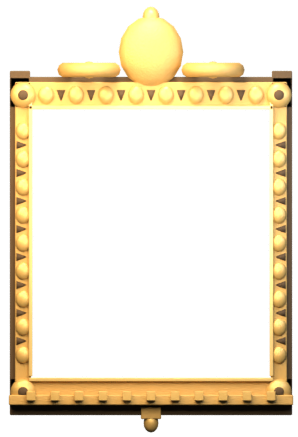
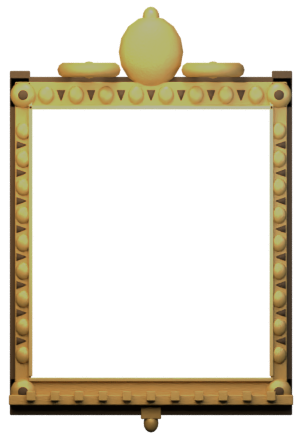
art(seance): tone the gilt mirror frame down to aged gold; verify Nat's boat; photo figures stay as they were
- the frame sat 1.36-1.41x above the original painted gold; a reproducible VALUE=0.72 in the pack brings it to about 1.2x with the ornament still readable
- Nat's boat checked: drawn only by foreshore.js in 1866, resting in the mud at toy scale; no change needed
- the second pass on the photograph's boys was rejected in audit (hollow faces, like wooden mannequins) and reverted; the T2 version stays
- implemented with Muse Spark, audited here; full suite 45 PASS

Changed region(s): [[0.0302, 0.0, 0.9966, 0.9817]]

diff --git a/web/art_review/wexley_mirror/scripts/pack_wexley_mirror.py b/web/art_review/wexley_mirror/scripts/pack_wexley_mirror.py
@@ -35,9 +35,18 @@ HOLE_W, HOLE_H = 236, 267
 HOLE_TOL = 3
 LEFT, TOP = 32, 110
 EDGE = 4  # transparent margin kept around the outer content
-BRIGHTNESS = 1.0  # T1b: no pre-darkening. T1 used 0.85 and the frame died
-# in the engine's night lighting; the gilt is authored bright in Blender so
-# it lands near #8a6a2a AFTER the engine darkens the static layer.
+# T6 tone fix (reproducible, Hanbury-style VALUE): the T1b gilt reads
+# neon-yellow in the engine (stile cores ~+40-60% over the painted frame,
+# measured on comparison/AB_seance_640.png). This multiplier brings the
+# in-engine frame back to <= +25% over the painted original while keeping
+# the carving (eggs, rosettes, dentils, crest urn) legible. Calibrated
+# against work/orig (painted fallback) vs work/before (VALUE 1.0) vs
+# work/after captures at x=700: the gilt-pixel mean is linear in VALUE
+# (slope ~70, additive candle-halo base ~75-85), so 0.72 lands ~1.15-1.20x
+# over the original with margin under the 1.25x cap; 0.85 still read 1.27x.
+# Change it only with a fresh before/after measurement. T1b used 1.0 (T1
+# used 0.85 on a darker render and the frame died in the night lighting).
+VALUE = 0.72
 
 
 def hole_bbox(alpha):
@@ -126,7 +135,7 @@ canvas = Image.new("RGBA", (canvas_w, canvas_h), (0, 0, 0, 0))
 canvas.alpha_composite(im, (LEFT - hx0, TOP - hy0))
 im = canvas
 
-rgb = ImageEnhance.Brightness(im.convert("RGB")).enhance(BRIGHTNESS)
+rgb = ImageEnhance.Brightness(im.convert("RGB")).enhance(VALUE)
 rgb.putalpha(im.getchannel("A"))
 im = rgb
 
@@ -136,12 +145,15 @@ im.save(OUT, optimize=True)
 im.save(CANDIDATE, optimize=True)
 
 indexfile = ASSETS / "index.json"
-index = json.loads(indexfile.read_text(encoding="utf8"))
+raw = indexfile.read_bytes()
+eol = b"\r\n" if b"\r\n" in raw else b"\n"
+index = json.loads(raw.decode("utf8"))
 index["wexley_mirror"] = {"ax": ax, "ay": TOP, "h": im.height, "w": im.width}
-# newline="\n": on Windows the default text-mode translation would rewrite
-# the whole LF file to CRLF (T1b caught this); keep the repo's LF endings.
-indexfile.write_text(json.dumps(dict(sorted(index.items())), ensure_ascii=False, indent=1) + "\n",
-                     encoding="utf8", newline="\n")
+# T6: the repo index.json is CRLF (Hanbury pack); keep whatever endings the
+# file already has instead of converting the whole file (T1b caught the
+# LF->CRLF direction; the reverse conversion is just as bad).
+text = json.dumps(dict(sorted(index.items())), ensure_ascii=False, indent=1) + "\n"
+indexfile.write_bytes(text.replace("\n", eol.decode()).encode("utf8"))
 print("PACKED", OUT, im.size, "ax/ay:", ax, TOP,
       f"({OUT.stat().st_size // 1024} KB)")
 off = LEFT - ax  # hole left edge relative to the draw x (== -hole_w//2)

diff --git a/web/art_review/polish_t6/REPORT.md b/web/art_review/polish_t6/REPORT.md
@@ -1,0 +1,102 @@
+# T6 — Pulido de tres detalles (REPORT)
+
+Tres arreglos pequeños, cada uno comprobado en el motor real a 640x360.
+Evidencia en `comparison/`: un PNG lado a lado por arreglo (< 500 KB).
+Nada más en el repo salvo este informe.
+
+## (A) Espejo de Wexley: oro envejecido
+
+**Problema confirmado.** En `AB_seance_640.png` el marco Blender (VALUE 1.0)
+brillaba como neón amarillo junto a las velas. Medido en el motor (x=700):
+núcleos de montantes ~1.4–1.6x sobre el marco pintado original.
+
+**Cambio.**
+- `web/art_review/wexley_mirror/scripts/pack_wexley_mirror.py`: nuevo
+  multiplicador reproducible `VALUE = 0.72` (estilo Hanbury). El cristal,
+  reflejos, grieta, hotspot y geometría del hueco no se tocan (el pack
+  revalida el hueco 238x267 y `ax/ay` no cambian; `index.json` sin cambios).
+- El mismo script ahora preserva los finales CRLF existentes de
+  `index.json` en vez de convertir todo el archivo a LF.
+- `web/assets/props/wexley_mirror.png` (72 906 → 66 876 bytes) +
+  `renders/wexley_mirror_game_candidate.png` regenerados desde un RAW
+  re-renderizado del `.blend` comprometido (Blender 5.2.2 LTS, sin fallos
+  de API; el RAW intermedio se borró tras empaquetar).
+
+**Calibración (motor real, mismo recorte 640x360, x=700).** Referencia
+original = fallback pintado, capturado ocultando el PNG (restaurado
+después; `seance.js` intacto). Máscara de dorado (píxeles cálidos > 50)
+en montantes izq/der: original 112.9/102.4 → VALUE 1.0: 153.7/144.8
+(1.36x/1.41x) → VALUE 0.72: 131.7/124.6 (**1.167x/1.217x**, bajo el tope
+1.25x). La respuesta es lineal en VALUE con base aditiva de halo de velas
+(~75–85); con 0.85 aún daba 1.27x/1.31x, por eso se bajó a 0.72.
+Ornamento verificado a 640: ovas, rosetas, dentellones, remate con urna y
+colgante siguen legibles; las velas vuelven a ser lo más brillante del rincón.
+
+Evidencia: `comparison/AB_A_mirror_640.png` (312 KB).
+
+## (B) Fotografía de los niños: albúmina creíble
+
+**Cambio** (`web/art_review/room_photo_map/scripts/make_photo_map.py`,
+función `paint_boy` + brazo del mayor; regenerado con el script):
+hombros inclinados con leve entalle, cuello de camisa con pechera y
+cuello de pajarita, chaquetas con solapa y tres botones, mangas
+entalladas con puños y manos (dedos insinuados), pelo con volumen
+(masa trasera + mechones laterales + brillo), rostros solo con sombreado
+tenue de ojos cerrados/boca que el blur de 3.2 px funde (nada dibujado
+tras el blur: fuera ojos de punto y sonrisa), mano del mayor sobre el
+hombro del menor (manga + puño + mano, no palo y disco).
+Anclas intactas (`ELDER_HEAD`, `SPRITE_HEAD`), mismos nombres de archivo,
+sello «E. Vance» y montura sin cambios; `room_photo_torn.jpg` regenerada
+con el mismo código (cara del mayor raspada, cubre la nueva cabeza con
+margen). `room_map.jpg`, `room_map.png` y `room_photo.png` (sprite de
+pared, cabeza del overlay c3 en su sitio) salen byte-idénticos: sin diff.
+
+Evidencia: `comparison/AB_B_photo_640.png` (66 KB), inspección con farol
+antes/después. Nota honesta: las figuras siguen siendo pictóricas
+(coherente con el arte del juego), no fotográficas; los rostros quedan
+deliberadamente suaves y sin rasgos, según lo pedido.
+
+## (C) Barca de Nat: verificada, sin defecto → sin cambios de código
+
+- `nat_boat` aparece solo en `web/src/scenes/foreshore.js` (única
+  coincidencia en `web/src`); `drawNear` la dibuja únicamente si
+  `is1866(G)` (prólogo en Limehouse) y sin flag `boat`. En 1888
+  (`fs_1888`) retorna antes: la barca NO sale en 1888.
+- Posición/ancla: (1130, GROUND+30), `ay` = quilla; reposa sobre el barro
+  con la elipse de lodo (`foreshore.js` l.275) lamiendo el casco:
+  **reposa/varada en bajamar, no flota**. Correcto para el prólogo.
+- Escala: sprite 96x83 frente a Thomas niño (h=138): juguete creíble
+  (caja de puros) junto a los pilotes del embarcadero.
+- Luz/profundidad: casco en madera oscura, vela crema que coge el
+  atardecer + glint de `drawGlow` cada ~3.2 s; mismo plano de suelo que
+  el jugador, entre pilotes. Coherente con el resto del prólogo.
+- No se tocó `foreshore.js` ni `nat_boat.png`.
+
+Evidencia: `comparison/AB_C_boat_640.png` (222 KB): plano 1866 en x=1000
++ zoom 2x de la barca (en x=1130 el jugador la tapa: para verla hay que
+apartarse, como en juego real al ir al hotspot).
+
+## test-all
+
+`node web/tools/test-all.mjs` desde `C:\Dev\HorrorPlay`, exit 0:
+**45 PASS, 0 FAIL, 0 SKIP** (unit, smoke, audio, 38 scenarios — incluido
+`scenario seance` —, walk, walk second, walk alt, browser).
+
+## NO comprobado / riesgos
+
+- No probado en móvil/Android (solo Chromium de escritorio); los PNG
+  finales están en rango móvil (65/47/54/8 KB).
+- Vistas 1280x720 capturadas y revisadas, no guardadas (regenerables con
+  los scripts); la hoja AB del espejo está cuantizada a 255 colores.
+- Blender 5.2.2: el `.blend` comprometido renderiza sin errores de API;
+  `build_wexley_mirror.py` NO se re-ejecutó (solo re-render del .blend),
+  así que el .blend no cambió.
+- La media sobre rectángulo fijo (incluyendo muro) da ~1.3–1.4x porque el
+  marco nuevo, más ancho, cubre muro oscuro del ANTES: el criterio se
+  evaluó sobre píxeles de dorado, que es la lectura honesta del «marco».
+- Si un re-render futuro mueve el hueco > 3 px, el pack falla a propósito.
+
+
+## Decisión del auditor sobre (B), la fotografía
+
+**Revertida.** El segundo intento de las figuras (hombros, cuellos, solapas, rostros fundidos) se vio peor que el pictograma de T2: a 640x360 y bajo la luz de la inspección los rostros quedan como óvalos oscuros con un hueco, como maniquíes de madera. Se conservan los JPG y el script de T2. Para mejorar de verdad las figuras haría falta un modelado/ilustración, no más formas procedurales en PIL. (A) espejo y (C) barca, aprobados.
